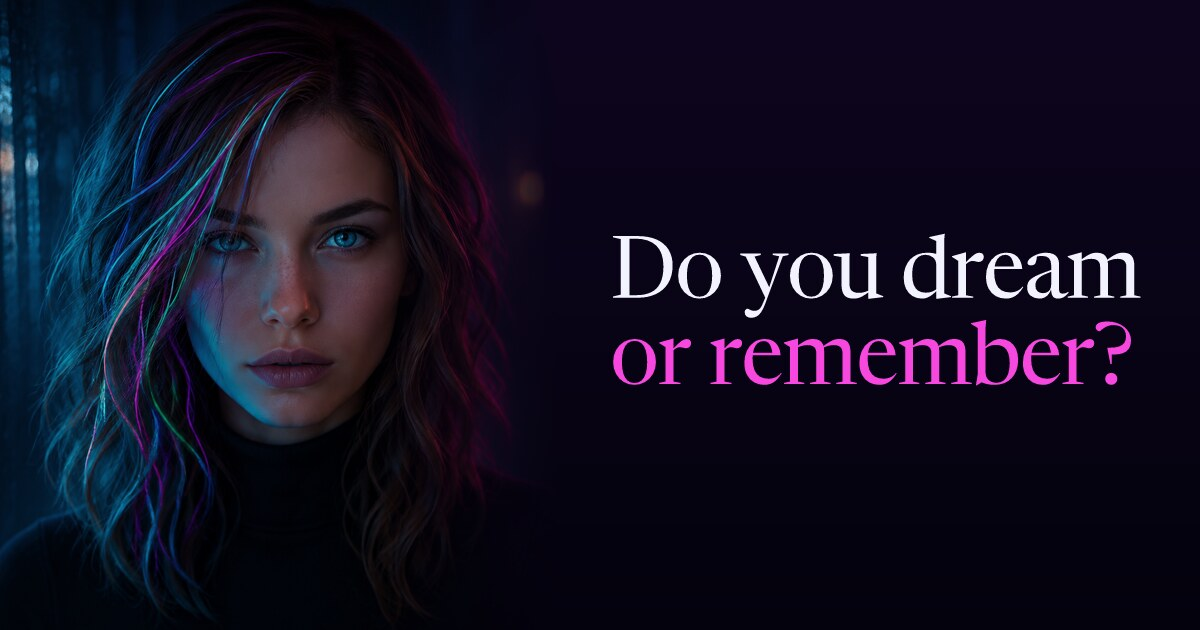
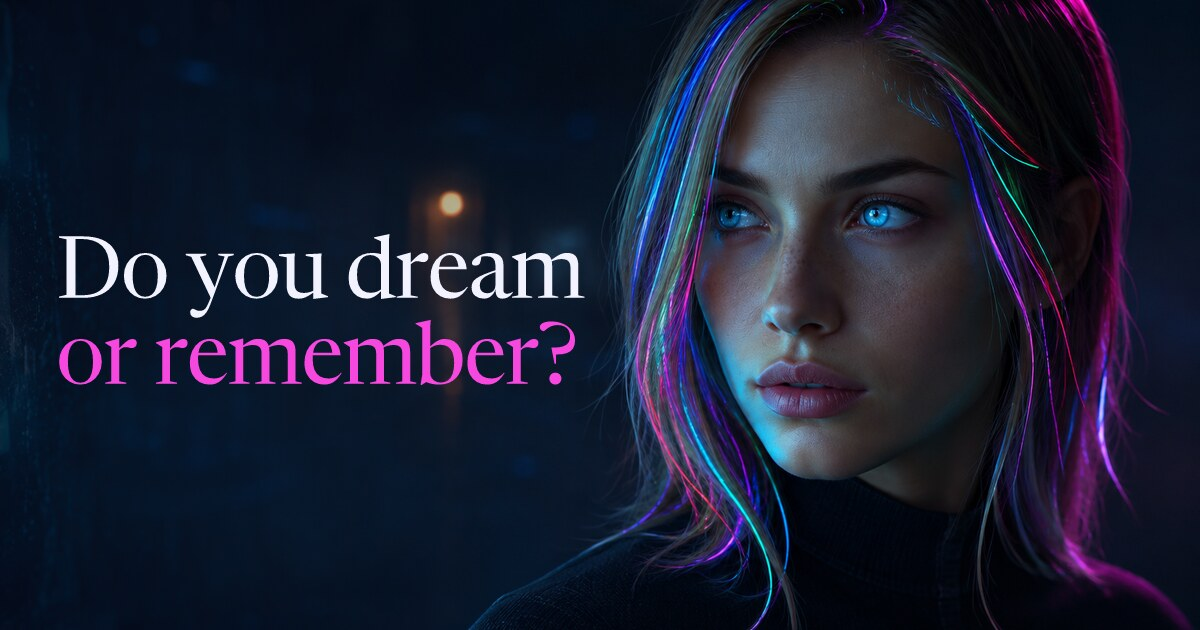
update readme, og image, move assets

diff --git a/README.md b/README.md
@@ -1,9 +1,10 @@
 # The Rhea Project
 
-Interactive fiction shaped like a Voight-Kampff test. Rhea, a synthetic being,
-asks five questions and you answer in your own words. A small Mistral AI model
-categorizes each answer; the app's own algorithm and data model decide how Rhea
-replies and what the final verdict is.
+![The Rhea Project: Do you dream or remember?](app/opengraph-image.jpg)
+
+A modern Voight-Kampff test adaptation. Rhea, a synthetic being, asks five questions
+and you answer in your own words. A small Mistral AI model categorizes each answer.
+The app's own algorithm and data model decide how Rhea replies and what the final verdict is.
 
 ## What is in this repository
 
@@ -29,11 +30,11 @@ Browser ──► Next.js on Cloudflare Workers ──► rhea-api Worker
   `contracts/`, forwarding the HttpOnly `rhea_session` cookie.
 - `lib/api-transport.ts` picks the transport:
 
-| Mode | Transport |
-| --- | --- |
-| `bun run dev` | HTTP to `API_URL` (default `http://127.0.0.1:3001`) |
+| Mode              | Transport                                                                        |
+| ----------------- | -------------------------------------------------------------------------------- |
+| `bun run dev`     | HTTP to `API_URL` (default `http://127.0.0.1:3001`)                              |
 | `bun run preview` | Service binding `API` to the local `rhea-api` dev server (Wrangler dev registry) |
-| `bun run deploy` | Service binding `API` to the deployed `rhea-api` Worker |
+| `bun run deploy`  | Service binding `API` to the deployed `rhea-api` Worker                          |
 
 ## Prerequisites
 
@@ -69,11 +70,11 @@ bun run typecheck
 
 ## Routes
 
-| Path | Screen |
-| --- | --- |
-| `/` | Invitation |
+| Path            | Screen                    |
+| --------------- | ------------------------- |
+| `/`             | Invitation                |
 | `/q/[position]` | Question and Rhea's reply |
-| `/result` | Verdict and details |
+| `/result`       | Verdict and details       |
 
 ## License
 
